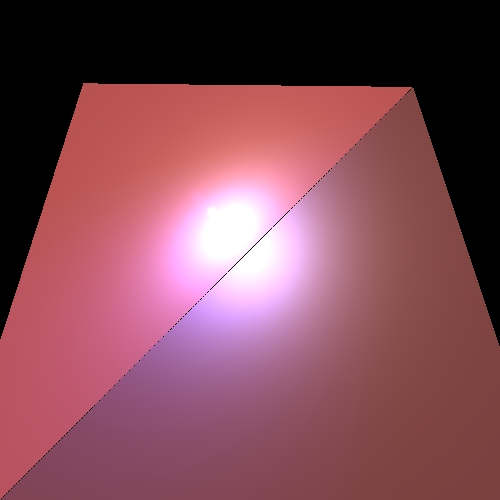
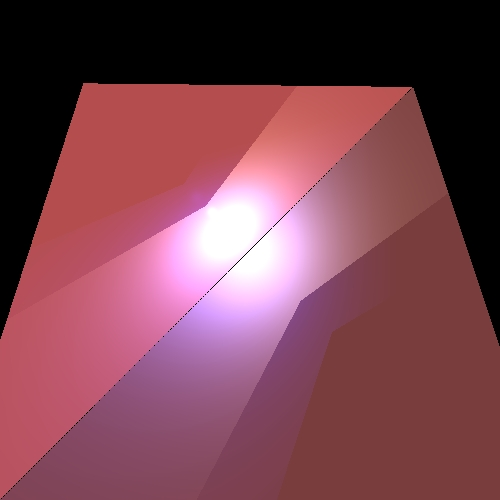
after refactoring findIntersection of sphere 21/05/2020 17:05

Changed region(s): [[0.51, 0.48, 0.81, 0.93], [0.21, 0.21, 0.54, 0.51]]

diff --git a/src/renderer/Render.java b/src/renderer/Render.java
@@ -18,6 +18,12 @@ import java.util.List;
  * @author Michael Bergshtein and Yishai Lutvak
  */
 public class Render {
+    /**
+     * Constant for size of rays origin for shading, transparency and reflection
+     * in order to avoid the unwanted case of self-shadow
+     */
+    private static final double DELTA = 0.1;
+
     ImageWriter _imageWriter;
     Scene _scene;
 
@@ -92,8 +98,9 @@ public class Render {
         for (LightSource lightSource : _scene.getLights()) {
             Vector l = lightSource.getL(intersection._point);
             if ((n.dotProduct(l)) * (n.dotProduct(v)) > 0) {
-                Color lightIntensity = lightSource.getIntensity(intersection._point);
-                color = color.add(calcDiffusive(kd, l, n, lightIntensity), calcSpecular(ks, l, n, v, nShininess, lightIntensity)); } }
+                if (unshaded(lightSource,l, n, intersection)) {
+                    Color lightIntensity = lightSource.getIntensity(intersection._point);
+                    color = color.add(calcDiffusive(kd, l, n, lightIntensity), calcSpecular(ks, l, n, v, nShininess, lightIntensity)); } } }
         return color;
     }
 
@@ -155,5 +162,24 @@ public class Render {
             for (int j = 0; j <Nx; j++)
                 if(i % interval == 0 || j % interval == 0 )
                     _imageWriter.writePixel(j, i, color);
+    }
+
+    /**
+     * check if their is no shadow on the point
+     * @param l vector from the light source the point
+     * @param n the normal of the geometry
+     * @param gp GeoPoint of the point checked
+     * @param light the light Source causing shadow
+     * @return true if their is no shadow on the point
+     */
+    private boolean unshaded(LightSource light ,Vector l, Vector n, GeoPoint gp){
+        Vector lightDirection = l.scale(-1); // from point to light source
+
+        Vector delta = n.scale(n.dotProduct(lightDirection) > 0 ? DELTA : - DELTA);
+        Point3D point = gp._point.add(delta);
+        Ray lightRay = new Ray(point, lightDirection);
+
+        List<GeoPoint> intersections = _scene.getGeometries().findIntersections(lightRay,light.getDistance(gp._point));
+        return intersections == null;
     }
 }

diff --git a/src/geometries/Sphere.java b/src/geometries/Sphere.java
@@ -84,26 +84,35 @@ public class Sphere extends RadialGeometry {
      * @return a list of intersect points
      */
     @Override
-    public List<GeoPoint> findIntersections(Ray ray) {
+    public List<GeoPoint> findIntersections(Ray ray, double max) {
         Point3D p0 =  ray.get_start();
         Vector v =  ray.get_direction();
         Vector u;
         try {
             u = _center.subtract(p0);
         } catch (IllegalArgumentException ex){
-            return List.of(new GeoPoint(this,ray.getPoint(_radius)));
+            if (alignZero(_radius-max) <= 0)
+                return List.of(new GeoPoint(this,ray.getPoint(_radius)));
+            else
+                return null;
         }
         double tm = alignZero(v.dotProduct(u));
         double dSquared = tm == 0 ? u.lengthSquared() : u.lengthSquared() - tm * tm;
         double thSquared = alignZero(_radius * _radius - dSquared);
-        if (thSquared <= 0) return null;
+        if (thSquared <= 0)
+            return null;
         double th =  Math.sqrt(thSquared);
         double t1 = alignZero(tm - th);
-        double t2 = alignZero(tm + th);
-        if (t1 <= 0 && t2 <= 0) return null;
-        if (t1 > 0 && t2 > 0)
+        double t2 = alignZero(tm + th); //Always t2 > t1 Because th is positive
+        if (t1 <= 0 && t2 <= 0) // t1 < t2 <= 0 < max
+            return null;
+        if (t1 > 0 && (alignZero(t2 - max) <= 0) ) // 0 < t1 < t2 < max
             return List.of(new GeoPoint(this,ray.getPoint(t1)),new GeoPoint(this,ray.getPoint(t2)));
-        else
+        if (t1 > 0 && (alignZero(t1 - max) <= 0)) // 0 < t1 < max < t2
+            return List.of(new GeoPoint(this,ray.getPoint(t1)));
+        if (t2 > 0 && (alignZero(t2 - max) <= 0)) // t1 <= 0 < t2 < max
             return List.of(new GeoPoint(this,ray.getPoint(t2)));
+        else // 0 < max < t1 < t2
+            return null;
     }
 }

diff --git a/src/geometries/Intersectable.java b/src/geometries/Intersectable.java
@@ -48,5 +48,15 @@ public interface Intersectable {
      * @param ray the ray to intersect a geometries
      * @return list of intersection points
      */
-    List<GeoPoint> findIntersections(Ray ray);
+    default List<GeoPoint> findIntersections(Ray ray) {
+        return findIntersections(ray, Double.POSITIVE_INFINITY);
+    }
+
+    /**
+     *
+     * @param ray
+     * @param max
+     * @return
+     */
+    List<GeoPoint> findIntersections(Ray ray, double max);
 }

diff --git a/src/elements/PointLight.java b/src/elements/PointLight.java
@@ -70,4 +70,14 @@ public class PointLight extends Light implements LightSource {
             return null;
         return p.subtract(_position).normalized();
     }
+
+    /**
+     * getDistance function
+     * @param p 3D point
+     * @return distance between the point and the light source
+     */
+    @Override
+    public double getDistance(Point3D p) {
+        return p.distance(_position);
+    }
 }

diff --git a/src/elements/DirectionalLight.java b/src/elements/DirectionalLight.java
@@ -44,4 +44,15 @@ public class DirectionalLight extends Light implements LightSource {
     public Vector getL(Point3D p) {
         return new Vector(_direction);
     }
+
+    /**
+     *
+     * @param p 3D point
+     * @return value of POSITIVE_INFINITY
+     */
+
+    @Override
+    public double getDistance(Point3D p) {
+        return Double.POSITIVE_INFINITY;
+    }
 }

diff --git a/src/elements/LightSource.java b/src/elements/LightSource.java
@@ -25,4 +25,10 @@ public interface LightSource {
      */
     public Vector getL(Point3D p);
 
+    /**
+     * getDistance function
+     * @param p 3D point
+     * @return distance between the point and the light source
+     */
+    public double getDistance(Point3D p);
 }
